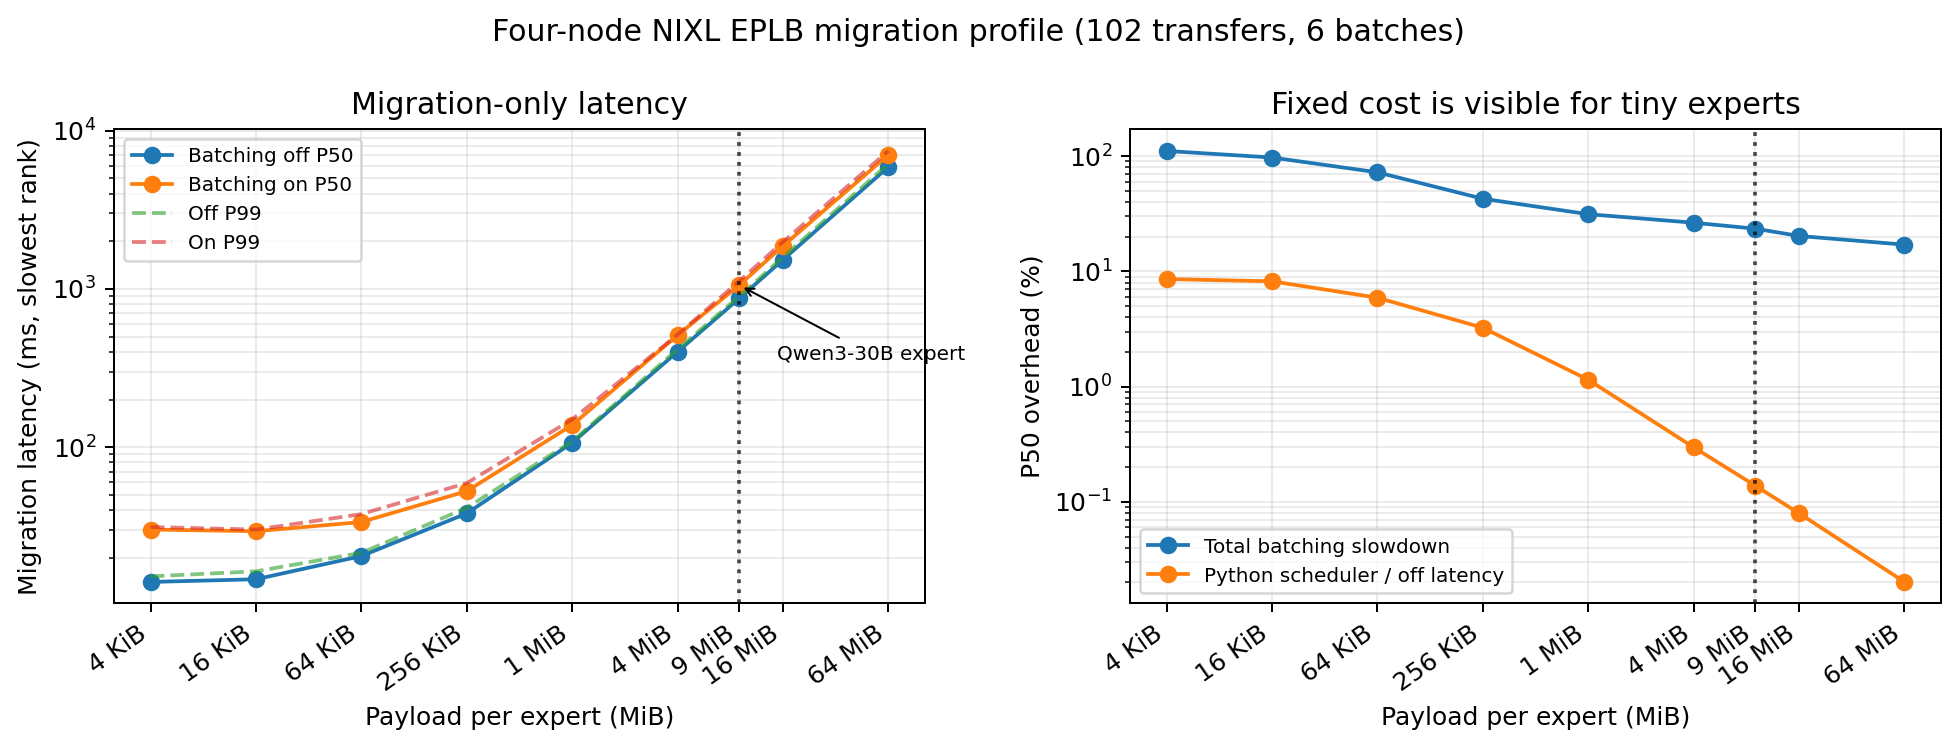
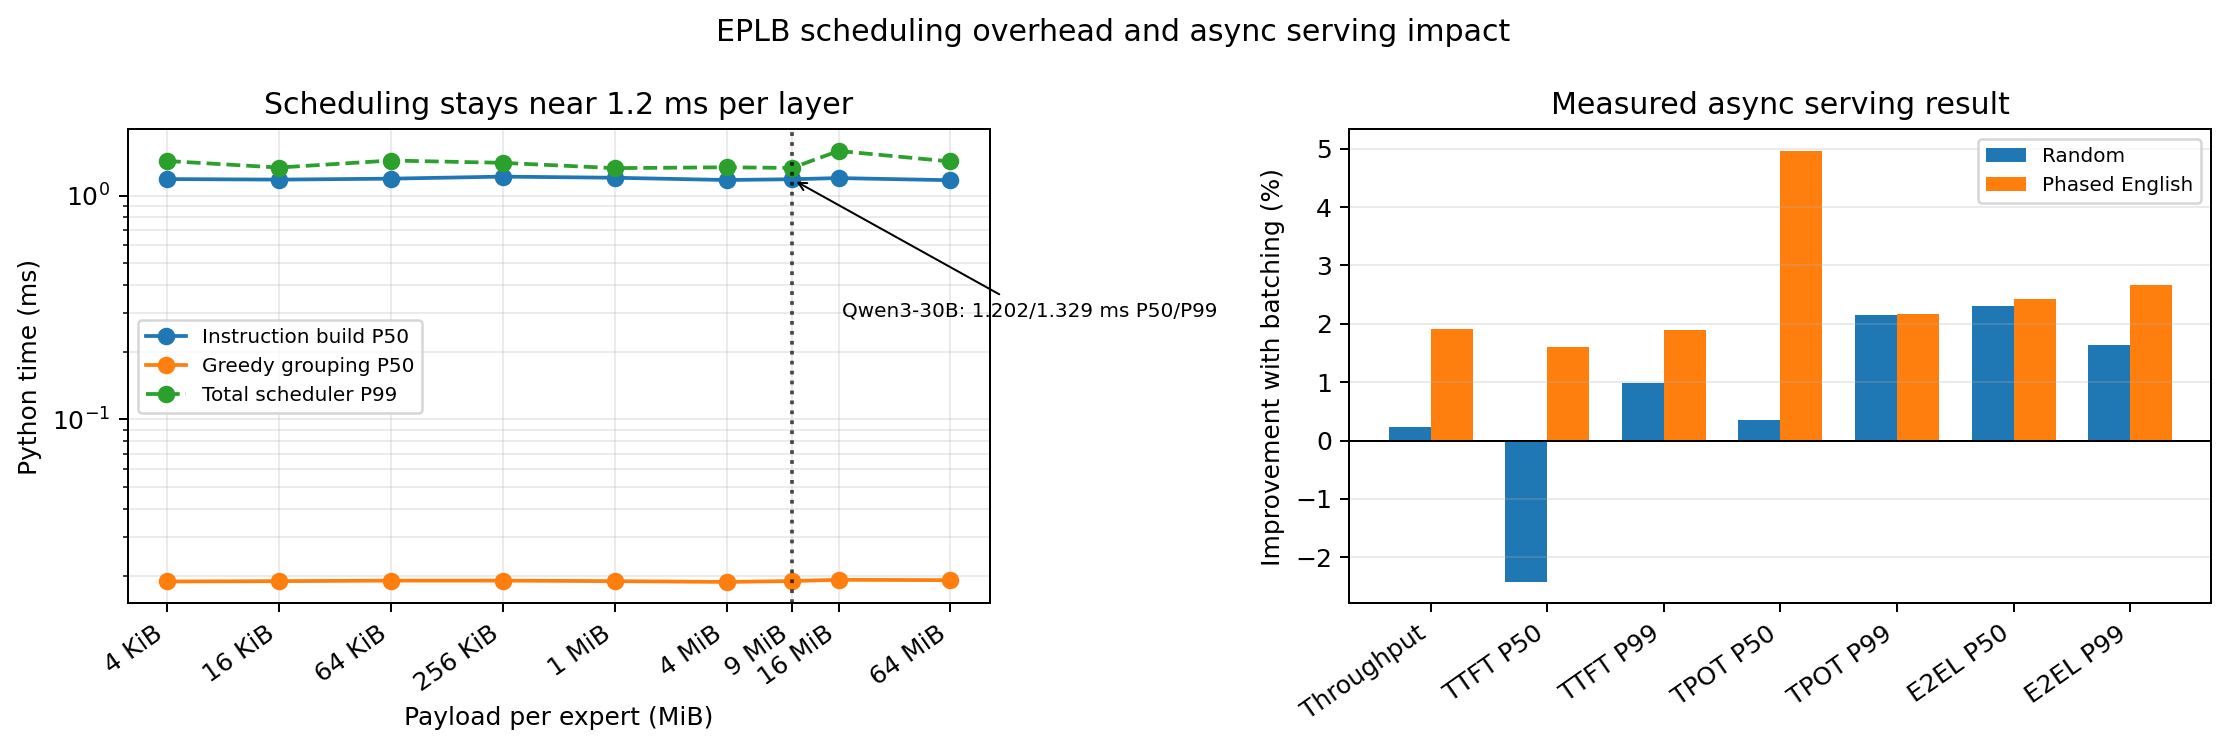
Compare scheduler overhead with async serving gains
Assisted-by: OpenAI Codex

diff --git a/benchmarks/eplb_rebalance/analyze_nixl_profile.py b/benchmarks/eplb_rebalance/analyze_nixl_profile.py
@@ -81,44 +81,82 @@ def write_csv(rows: list[dict[str, Any]], path: Path) -> None:
         writer.writerows(rows)
 
 
-def plot(rows: list[dict[str, Any]], path: Path) -> None:
+def serving_improvements(result_dir: Path) -> dict[str, list[float]]:
+    serving_dir = result_dir.parent / "nixl_cache_on_20260901"
+    metric_keys = [
+        "output_throughput",
+        "p50_ttft_ms",
+        "p99_ttft_ms",
+        "p50_tpot_ms",
+        "p99_tpot_ms",
+        "p50_e2el_ms",
+        "p99_e2el_ms",
+    ]
+    improvements: dict[str, list[float]] = {}
+    for workload in ("random", "phased"):
+        off = json.loads(
+            (serving_dir / workload / "03_async_off" / "bench.json").read_text()
+        )
+        on = json.loads(
+            (serving_dir / workload / "04_async_batching_on" / "bench.json").read_text()
+        )
+        values = [(on[metric_keys[0]] / off[metric_keys[0]] - 1) * 100]
+        values.extend((off[key] - on[key]) / off[key] * 100 for key in metric_keys[1:])
+        improvements[workload] = values
+    return improvements
+
+
+def plot(rows: list[dict[str, Any]], result_dir: Path, path: Path) -> None:
     sizes = np.asarray([row["expert_mib"] for row in rows])
-    off_p50 = np.asarray([row["off_p50_ms"] for row in rows])
-    off_p99 = np.asarray([row["off_p99_ms"] for row in rows])
-    on_p50 = np.asarray([row["on_p50_ms"] for row in rows])
-    on_p99 = np.asarray([row["on_p99_ms"] for row in rows])
-    slowdown = np.asarray([row["slowdown_p50_pct"] for row in rows])
-    scheduler_share = np.asarray([row["scheduler_share_pct"] for row in rows])
+    build_p50 = np.asarray([row["build_p50_ms"] for row in rows])
+    greedy_p50 = np.asarray([row["greedy_p50_ms"] for row in rows])
+    scheduler_p99 = np.asarray([row["scheduler_p99_ms"] for row in rows])
+    serving = serving_improvements(result_dir)
 
-    figure, axes = plt.subplots(1, 2, figsize=(11, 4.2))
-    latency = axes[0]
-    latency.plot(sizes, off_p50, "o-", label="Batching off P50")
-    latency.plot(sizes, on_p50, "o-", label="Batching on P50")
-    latency.plot(sizes, off_p99, "--", alpha=0.6, label="Off P99")
-    latency.plot(sizes, on_p99, "--", alpha=0.6, label="On P99")
-    latency.set_xscale("log", base=2)
-    latency.set_yscale("log")
-    latency.set_xlabel("Payload per expert (MiB)")
-    latency.set_ylabel("Migration latency (ms, slowest rank)")
-    latency.set_title("Migration-only latency")
-    latency.grid(True, which="both", alpha=0.25)
-    latency.legend(fontsize=8)
+    figure, axes = plt.subplots(1, 2, figsize=(12.5, 4.2))
+    scheduler = axes[0]
+    scheduler.plot(sizes, build_p50, "o-", label="Instruction build P50")
+    scheduler.plot(sizes, greedy_p50, "o-", label="Greedy grouping P50")
+    scheduler.plot(sizes, scheduler_p99, "o--", label="Total scheduler P99")
+    scheduler.set_xscale("log", base=2)
+    scheduler.set_yscale("log")
+    scheduler.set_xlabel("Payload per expert (MiB)")
+    scheduler.set_ylabel("Python time (ms)")
+    scheduler.set_title("Scheduling stays near 1.2 ms per layer")
+    scheduler.grid(True, which="both", alpha=0.25)
+    scheduler.legend(fontsize=8)
 
-    overhead = axes[1]
-    overhead.plot(sizes, slowdown, "o-", label="Total batching slowdown")
-    overhead.plot(
-        sizes,
-        scheduler_share,
-        "o-",
-        label="Python scheduler / off latency",
+    serving_axis = axes[1]
+    labels = [
+        "Throughput",
+        "TTFT P50",
+        "TTFT P99",
+        "TPOT P50",
+        "TPOT P99",
+        "E2EL P50",
+        "E2EL P99",
+    ]
+    positions = np.arange(len(labels))
+    width = 0.36
+    serving_axis.bar(
+        positions - width / 2,
+        serving["random"],
+        width,
+        label="Random",
     )
-    overhead.set_xscale("log", base=2)
-    overhead.set_yscale("log")
-    overhead.set_xlabel("Payload per expert (MiB)")
-    overhead.set_ylabel("P50 overhead (%)")
-    overhead.set_title("Fixed cost is visible for tiny experts")
-    overhead.grid(True, which="both", alpha=0.25)
-    overhead.legend(fontsize=8)
+    serving_axis.bar(
+        positions + width / 2,
+        serving["phased"],
+        width,
+        label="Phased English",
+    )
+    serving_axis.axhline(0, color="black", linewidth=0.8)
+    serving_axis.set_xticks(positions)
+    serving_axis.set_xticklabels(labels, rotation=35, ha="right")
+    serving_axis.set_ylabel("Improvement with batching (%)")
+    serving_axis.set_title("Measured async serving result")
+    serving_axis.grid(True, axis="y", alpha=0.25)
+    serving_axis.legend(fontsize=8)
 
     size_labels = [
         "4 KiB",
@@ -131,20 +169,19 @@ def plot(rows: list[dict[str, Any]], path: Path) -> None:
         "16 MiB",
         "64 MiB",
     ]
-    for axis in axes:
-        axis.set_xticks(sizes)
-        axis.set_xticklabels(size_labels, rotation=35, ha="right")
-        axis.axvline(9, color="black", linestyle=":", alpha=0.7)
+    scheduler.set_xticks(sizes)
+    scheduler.set_xticklabels(size_labels, rotation=35, ha="right")
+    scheduler.axvline(9, color="black", linestyle=":", alpha=0.7)
     qwen_index = list(sizes).index(9)
-    latency.annotate(
-        "Qwen3-30B expert",
-        xy=(9, on_p50[qwen_index]),
-        xytext=(15, -30),
+    scheduler.annotate(
+        "Qwen3-30B: 1.202/1.329 ms P50/P99",
+        xy=(9, build_p50[qwen_index]),
+        xytext=(20, -55),
         textcoords="offset points",
         fontsize=8,
         arrowprops={"arrowstyle": "->", "linewidth": 0.8},
     )
-    figure.suptitle("Four-node NIXL EPLB migration profile (102 transfers, 6 batches)")
+    figure.suptitle("EPLB scheduling overhead and async serving impact")
     figure.tight_layout()
     figure.savefig(path, dpi=180, bbox_inches="tight")
 
@@ -159,7 +196,7 @@ def main() -> None:
     if not rows:
         raise RuntimeError(f"No profile JSON files found in {raw_dir}")
     write_csv(rows, args.result_dir / "summary.csv")
-    plot(rows, args.result_dir / "migration_profile.png")
+    plot(rows, args.result_dir, args.result_dir / "migration_profile.png")
 
 
 if __name__ == "__main__":

diff --git a/benchmarks/eplb_rebalance/README.md b/benchmarks/eplb_rebalance/README.md
@@ -242,11 +242,11 @@ layer when batching was enabled.
 
 ## 6. Migration Profiling
 
-This profile isolates NIXL migration; it does not run inference or repeat the
+This profile measures the added Python scheduling work without repeating the
 serving benchmark. It uses 32 physical slots per rank, 102 remote transfers,
-12 directed rank-pair flows, and six scheduled batches. Each point alternates
-batching off/on for ten measured repetitions after two warmups. Reported
-migration latency is the slowest rank in each repetition.
+12 directed rank-pair flows, and six scheduled batches. Each payload point has
+500 scheduler repetitions; the raw files also retain ten alternating off/on
+NIXL migrations after two warmups.
 
 Run the following command on all four nodes, changing `NODE_RANK` from 0 to 3.
 Repeat it for each payload size.
@@ -272,21 +272,25 @@ Qwen3-30B-A3B has `hidden_size=2048` and
 `moe_intermediate_size=768`. Its two FP16 expert matrices total exactly 9 MiB
 per expert, so the 9 MiB point matches the model used by the serving benchmark.
 
-| Expert payload | Scheduler P50 (ms) | Scheduler / off | Off P50 (ms) | On P50 (ms) | Migration slowdown |
-| ---: | ---: | ---: | ---: | ---: | ---: |
-| 4 KiB | 1.205 | 8.57% | 14.06 | 30.14 | 110.77% |
-| 64 KiB | 1.209 | 5.90% | 20.48 | 33.61 | 72.32% |
-| 1 MiB | 1.220 | 1.15% | 106.45 | 137.94 | 31.33% |
-| 9 MiB | 1.202 | 0.138% | 870.31 | 1,056.25 | 23.46% |
-| 64 MiB | 1.191 | 0.020% | 5,903.55 | 7,038.50 | 17.04% |
+| Expert payload | Scheduler P50/P99 (ms) |
+| ---: | ---: |
+| 4 KiB | 1.205 / 1.427 |
+| 64 KiB | 1.209 / 1.434 |
+| 1 MiB | 1.220 / 1.326 |
+| 9 MiB | 1.202 / 1.329 |
+| 64 MiB | 1.191 / 1.420 |
 
-At 9 MiB, the scheduler P99 is 1.329 ms. The greedy grouping itself is only
-0.019 ms P50; most scheduler time is spent constructing the migration
-instructions. The Python cost is therefore small at realistic expert sizes.
-The total migration remains slower because batching intentionally replaces one
-NIXL execute/barrier with six sequential steps. This migration-only result must
-not be presented as serving performance; the async serving tables above measure
-the corresponding reduction in inference interference.
+At 9 MiB, the greedy grouping itself is only 0.019 ms P50; most of the 1.202 ms
+is instruction construction. For Qwen3-30B's 48 layers, multiplying the
+per-layer medians gives about 57.7 ms of background CPU scheduling per complete
+model pass. This work runs in the async migration worker rather than on the
+inference critical path.
+
+The figure places this component cost beside the existing async serving results.
+Those runs improved throughput by 0.23%/1.91%, TPOT P50 by 0.36%/4.96%, TPOT
+P99 by 2.15%/2.16%, and E2EL P50 by 2.30%/2.42% for random/phased workloads.
+The quantities are not directly additive: scheduling is paid per rebalance,
+while serving latency is measured per request.
 
 ![NIXL migration profile](results/nixl_profile_20260904/migration_profile.png)
 
